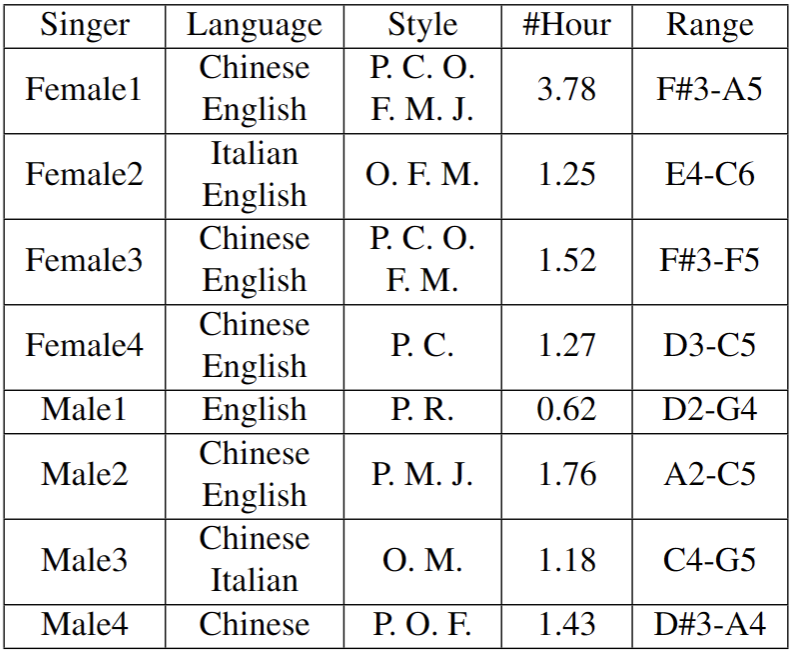
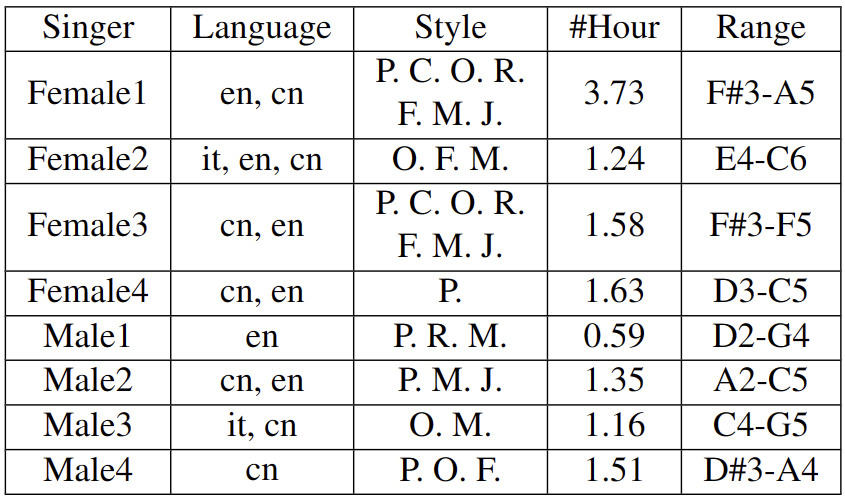
Update to 111

Changed region(s): [[0.0, 0.0, 1.0, 1.0]]

diff --git a/index.html b/index.html
@@ -5,7 +5,7 @@
 	<meta name="generator" content="Hugo 0.80.0" />
   <meta charset="utf-8">
   <meta http-equiv="x-ua-compatible" content="ie=edge">
-  <title>SingStyle101</title>
+  <title>SingStyle111</title>
   <meta name="viewport" content="width=device-width, initial-scale=1">
   
 <meta name="description" content="Hugo Whisper is a documentation theme built with Hugo." />
@@ -18,7 +18,7 @@
 <meta name="twitter:site" content="@zerostaticio" />
 <meta name="twitter:creator" content="@zerostaticio" />
 
-  <link rel="icon" href="https://singstyle101.github.io/favicon.png">
+  <link rel="icon" href="https://singstyle111.github.io/favicon.png">
 
   
   
@@ -76,10 +76,10 @@
     <div class='header'>
   <div class="container">
     <div class="logo">
-      <a href="https://singstyle101.github.io"><img alt="Logo" src="/singing.svg" /></a>
+      <a href="https://singstyle111.github.io"><img alt="Logo" src="/singing.svg" /></a>
     </div>
     <div class="logo-mobile">
-      <a href="https://singstyle101.github.io"><img alt="Logo" src="/singing.svg" /></a>
+      <a href="https://singstyle111.github.io"><img alt="Logo" src="/singing.svg" /></a>
     </div>
     <div id="main-menu" class="main-menu">
   <ul>
@@ -146,18 +146,18 @@
   <div class="container pt-2 pb-16">
     <div class="row">
       <div class="col-12">
-        <h1 class="title">SingStyle101</h1>
+        <h1 class="title">SingStyle111</h1>
         <div class="content">
           
           <div style="text-align: justify;">
 <h2 id="a-multilingual-singing-dataset-with-style-transfer">A Multilingual Singing Dataset with Style Transfer</h2>
-<p><em><strong>SingStyle101</strong></em> is a large and high-quality singing dataset. It contains 101 songs performed by eight professional singers, spanning 12.8 hours of clean monophonic vocal recordings in studio quality.</p>
+<p><em><strong>SingStyle111</strong></em> is a large and high-quality singing dataset. It contains 111 songs performed by eight professional singers, spanning 12.8 hours of clean monophonic vocal recordings in studio quality.</p>
 <ul>
 <li>
 <p>It is a diverse dataset with creative singing. It covers English, Chinese, and Italian songs and incorporates various singing styles, such as bel canto opera, Chinese folk, pop, jazz, and children. Some performances are creative improvisations based on the original score.</p>
 </li>
 <li>
-<p>It demonstrates style transfer in both performance and timbre levels. 77 songs contain at least two distinct singing styles performed by the same singer.</p>
+<p>It demonstrates style transfer in both performance and timbre levels. 80 songs contain at least two distinct singing styles performed by the same singer.</p>
 </li>
 <li>
 <p>It includes proper annotations and extracted features. We manually segmented voices into phrases, aligned the phonemes of lyrics with Performance MIDI files and music score notes, and extracted acoustic features such as Mel-Spectrogram, F0 contour, and amplitude curves.</p>
@@ -171,7 +171,7 @@
 <img src="gallery_3.jpg" width=500 style="margin:0; border:0;" /></p>
 <p><br><br></p>
 <h2 id="a-iddista-paper"><a id="dist"></a> <strong>Paper</strong></h2>
-<p><a href="https://www.bing.com">SingStyle101: A Multilingual Singing Dataset With Style Transfer</a>
+<p><a href="https://www.bing.com">SingStyle111: A Multilingual Singing Dataset With Style Transfer</a>
 <br><br></p>
 <h2 id="distribution"><strong>Distribution</strong></h2>
 <p><a id="exp"></a>
@@ -179,7 +179,7 @@ Researchers can access and download the dataset through a formal application pro
 <p><a href="https://www.bing.com">Application shortcut</a>
 <br><br></p>
 <h2 id="examples"><strong>Examples</strong></h2>
-<p>We provide you here some showcases of the recordings in <em><strong>SingStyle101</strong></em>, demostrating the wide span of the dataset.
+<p>We provide you here some showcases of the recordings in <em><strong>SingStyle111</strong></em>, demostrating the wide span of the dataset.
 <br><br></p>
 <h3 id="multilingual-data">Multilingual data</h3>
 <ul>
@@ -243,7 +243,7 @@ Researchers can access and download the dataset through a formal application pro
 </audio></li>
 </ul>
 <h3 id="style-transfer-examples">Style transfer examples</h3>
-<p>SingStyle101 contains many performances where a single singer performs in multiple styles, offering the potential to abstract styles from other information (singer identity, melodies) which is held constant. In the multi-style recordings, singers were asked to exaggerate differences, which should help to learn features that characterize different styles.</p>
+<p>SingStyle111 contains many performances where a single singer performs in multiple styles, offering the potential to abstract styles from other information (singer identity, melodies) which is held constant. In the multi-style recordings, singers were asked to exaggerate differences, which should help to learn features that characterize different styles.</p>
 <ul>
 <li>Song 1</li>
 </ul>
@@ -551,7 +551,7 @@ Researchers can access and download the dataset through a formal application pro
 <p><br><br></p>
 <h2 id="statistics"><strong>Statistics</strong></h2>
 <h3 id="repertoire-language-and-styles">Repertoire, language and styles</h3>
-<p><em><strong>SingStyle101</strong></em> comprises <strong>101</strong> songs, of which <strong>77</strong> have at least two different versions performed in distinct styles by the same singer, resulting in a total of <strong>193</strong> song versions. The dataset encompasses three languages: <strong>English (322 minutes), Chinese Mandarin (359 minutes), and Italian (88 minutes)</strong>.<br>
+<p><em><strong>SingStyle111</strong></em> comprises <strong>111</strong> songs, of which <strong>80</strong> have at least two different versions performed in distinct styles by the same singer, resulting in a total of <strong>224</strong> song versions. The dataset encompasses three languages: <strong>English (372 minutes), Chinese Mandarin (307 minutes), and Italian (88 minutes)</strong>.<br>
 The figure below illustrates the number of song versions for each language.</p>
 <p style="text-align: center;">
     <img src="song_style.png" width=500 style="margin:0 auto;"/>

diff --git a/404.html b/404.html
@@ -4,10 +4,10 @@
 <head>
   <meta charset="utf-8">
   <meta http-equiv="x-ua-compatible" content="ie=edge">
-  <title>404 Page not found - SingStyle101</title>
+  <title>404 Page not found - SingStyle111</title>
   <meta name="viewport" content="width=device-width, initial-scale=1">
   
-  <link rel="icon" href="https://singstyle101.github.io/favicon.png">
+  <link rel="icon" href="https://singstyle111.github.io/favicon.png">
 
   
   
@@ -65,10 +65,10 @@
     <div class='header'>
   <div class="container">
     <div class="logo">
-      <a href="https://singstyle101.github.io"><img alt="Logo" src="/singing.svg" /></a>
+      <a href="https://singstyle111.github.io"><img alt="Logo" src="/singing.svg" /></a>
     </div>
     <div class="logo-mobile">
-      <a href="https://singstyle101.github.io"><img alt="Logo" src="/singing.svg" /></a>
+      <a href="https://singstyle111.github.io"><img alt="Logo" src="/singing.svg" /></a>
     </div>
     <div id="main-menu" class="main-menu">
   <ul>

diff --git a/categories/index.html b/categories/index.html
@@ -4,10 +4,10 @@
 <head>
   <meta charset="utf-8">
   <meta http-equiv="x-ua-compatible" content="ie=edge">
-  <title>Categories - SingStyle101</title>
+  <title>Categories - SingStyle111</title>
   <meta name="viewport" content="width=device-width, initial-scale=1">
   
-  <link rel="icon" href="https://singstyle101.github.io/favicon.png">
+  <link rel="icon" href="https://singstyle111.github.io/favicon.png">
 
   
   
@@ -65,10 +65,10 @@
     <div class='header'>
   <div class="container">
     <div class="logo">
-      <a href="https://singstyle101.github.io"><img alt="Logo" src="/singing.svg" /></a>
+      <a href="https://singstyle111.github.io"><img alt="Logo" src="/singing.svg" /></a>
     </div>
     <div class="logo-mobile">
-      <a href="https://singstyle101.github.io"><img alt="Logo" src="/singing.svg" /></a>
+      <a href="https://singstyle111.github.io"><img alt="Logo" src="/singing.svg" /></a>
     </div>
     <div id="main-menu" class="main-menu">
   <ul>

diff --git a/tags/index.html b/tags/index.html
@@ -4,10 +4,10 @@
 <head>
   <meta charset="utf-8">
   <meta http-equiv="x-ua-compatible" content="ie=edge">
-  <title>Tags - SingStyle101</title>
+  <title>Tags - SingStyle111</title>
   <meta name="viewport" content="width=device-width, initial-scale=1">
   
-  <link rel="icon" href="https://singstyle101.github.io/favicon.png">
+  <link rel="icon" href="https://singstyle111.github.io/favicon.png">
 
   
   
@@ -65,10 +65,10 @@
     <div class='header'>
   <div class="container">
     <div class="logo">
-      <a href="https://singstyle101.github.io"><img alt="Logo" src="/singing.svg" /></a>
+      <a href="https://singstyle111.github.io"><img alt="Logo" src="/singing.svg" /></a>
     </div>
     <div class="logo-mobile">
-      <a href="https://singstyle101.github.io"><img alt="Logo" src="/singing.svg" /></a>
+      <a href="https://singstyle111.github.io"><img alt="Logo" src="/singing.svg" /></a>
     </div>
     <div id="main-menu" class="main-menu">
   <ul>
